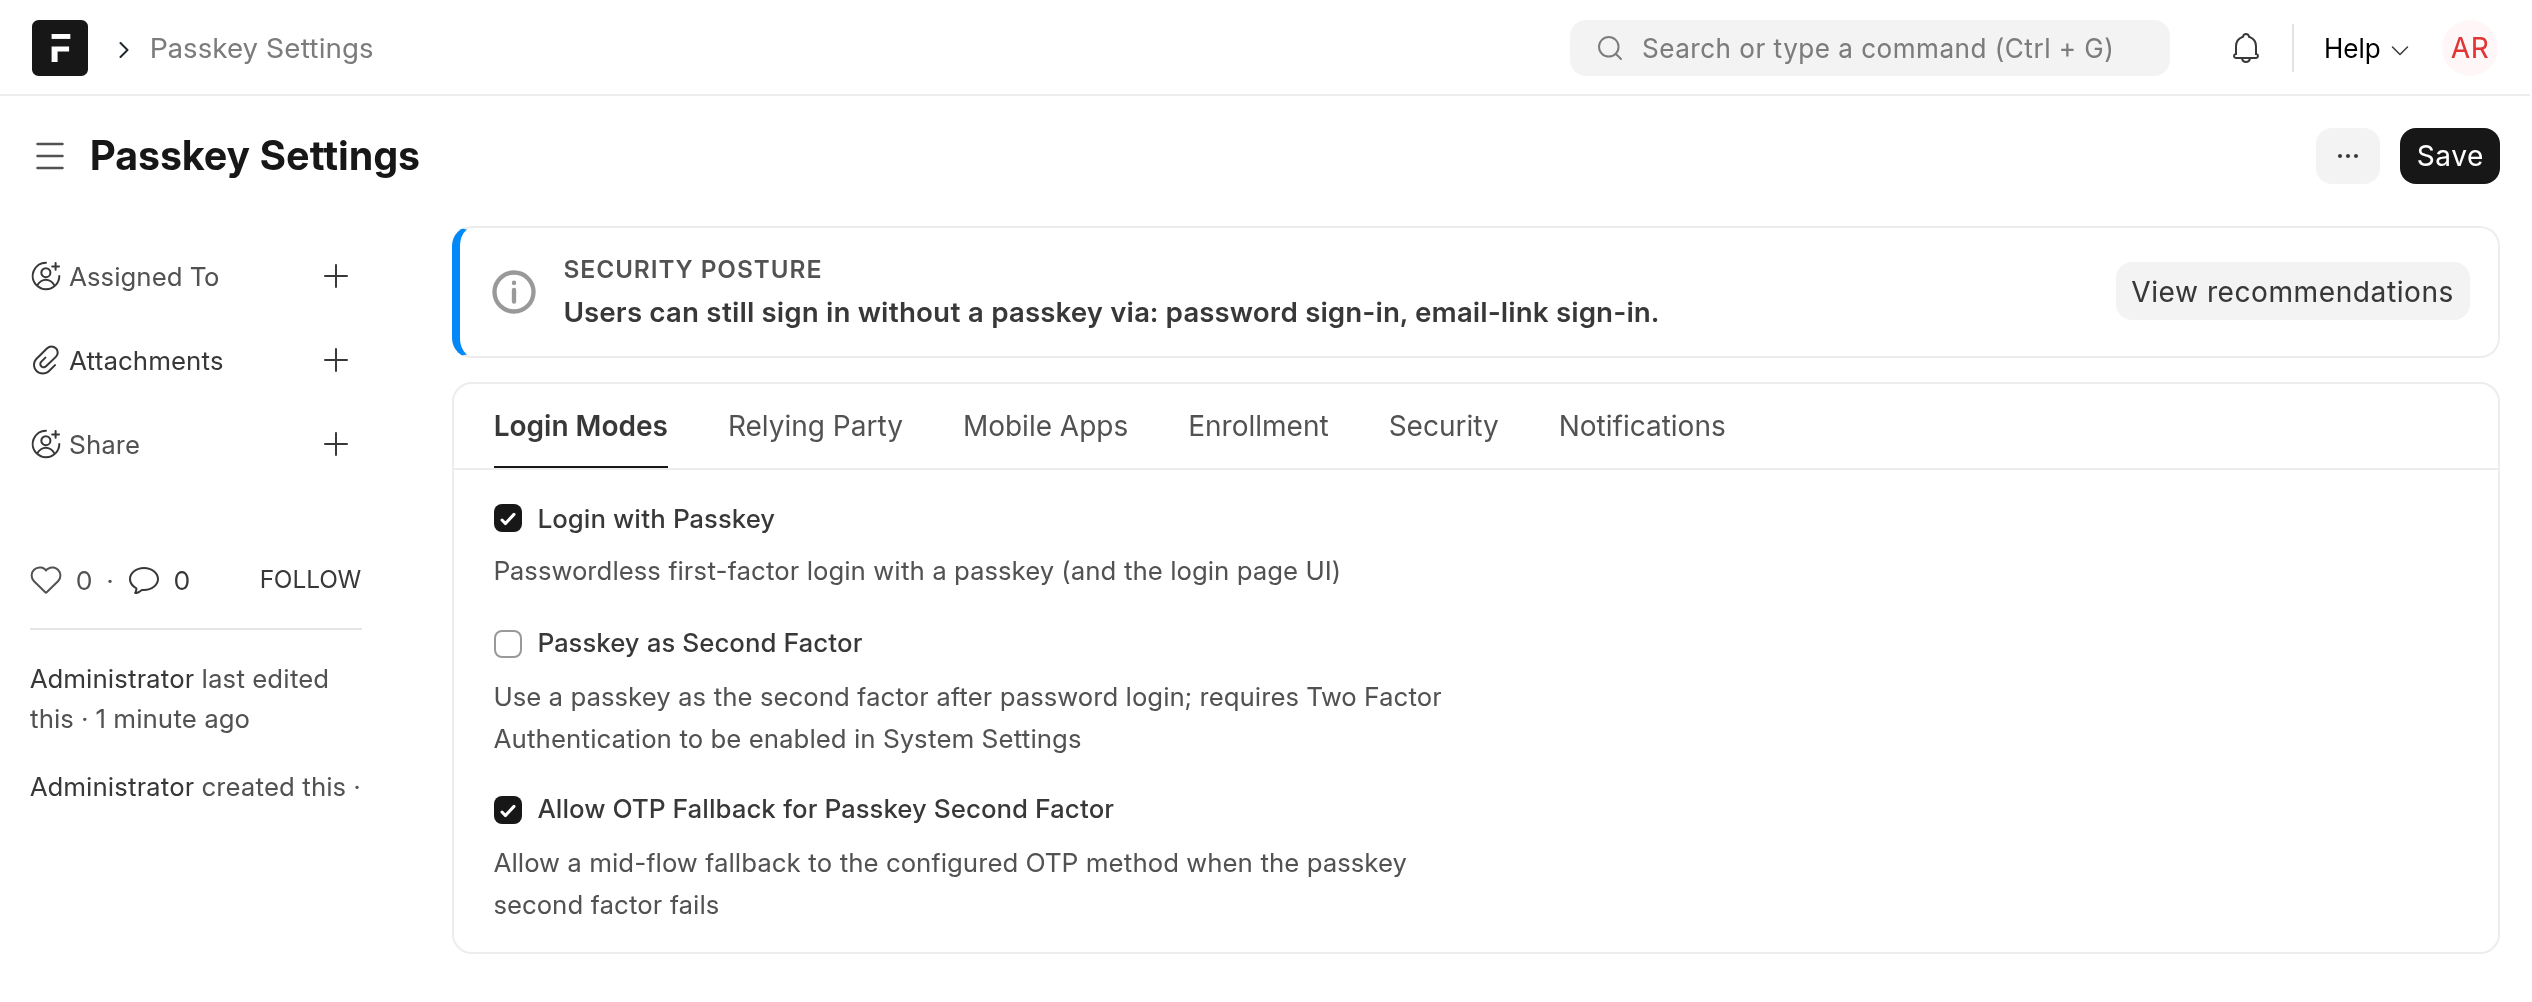
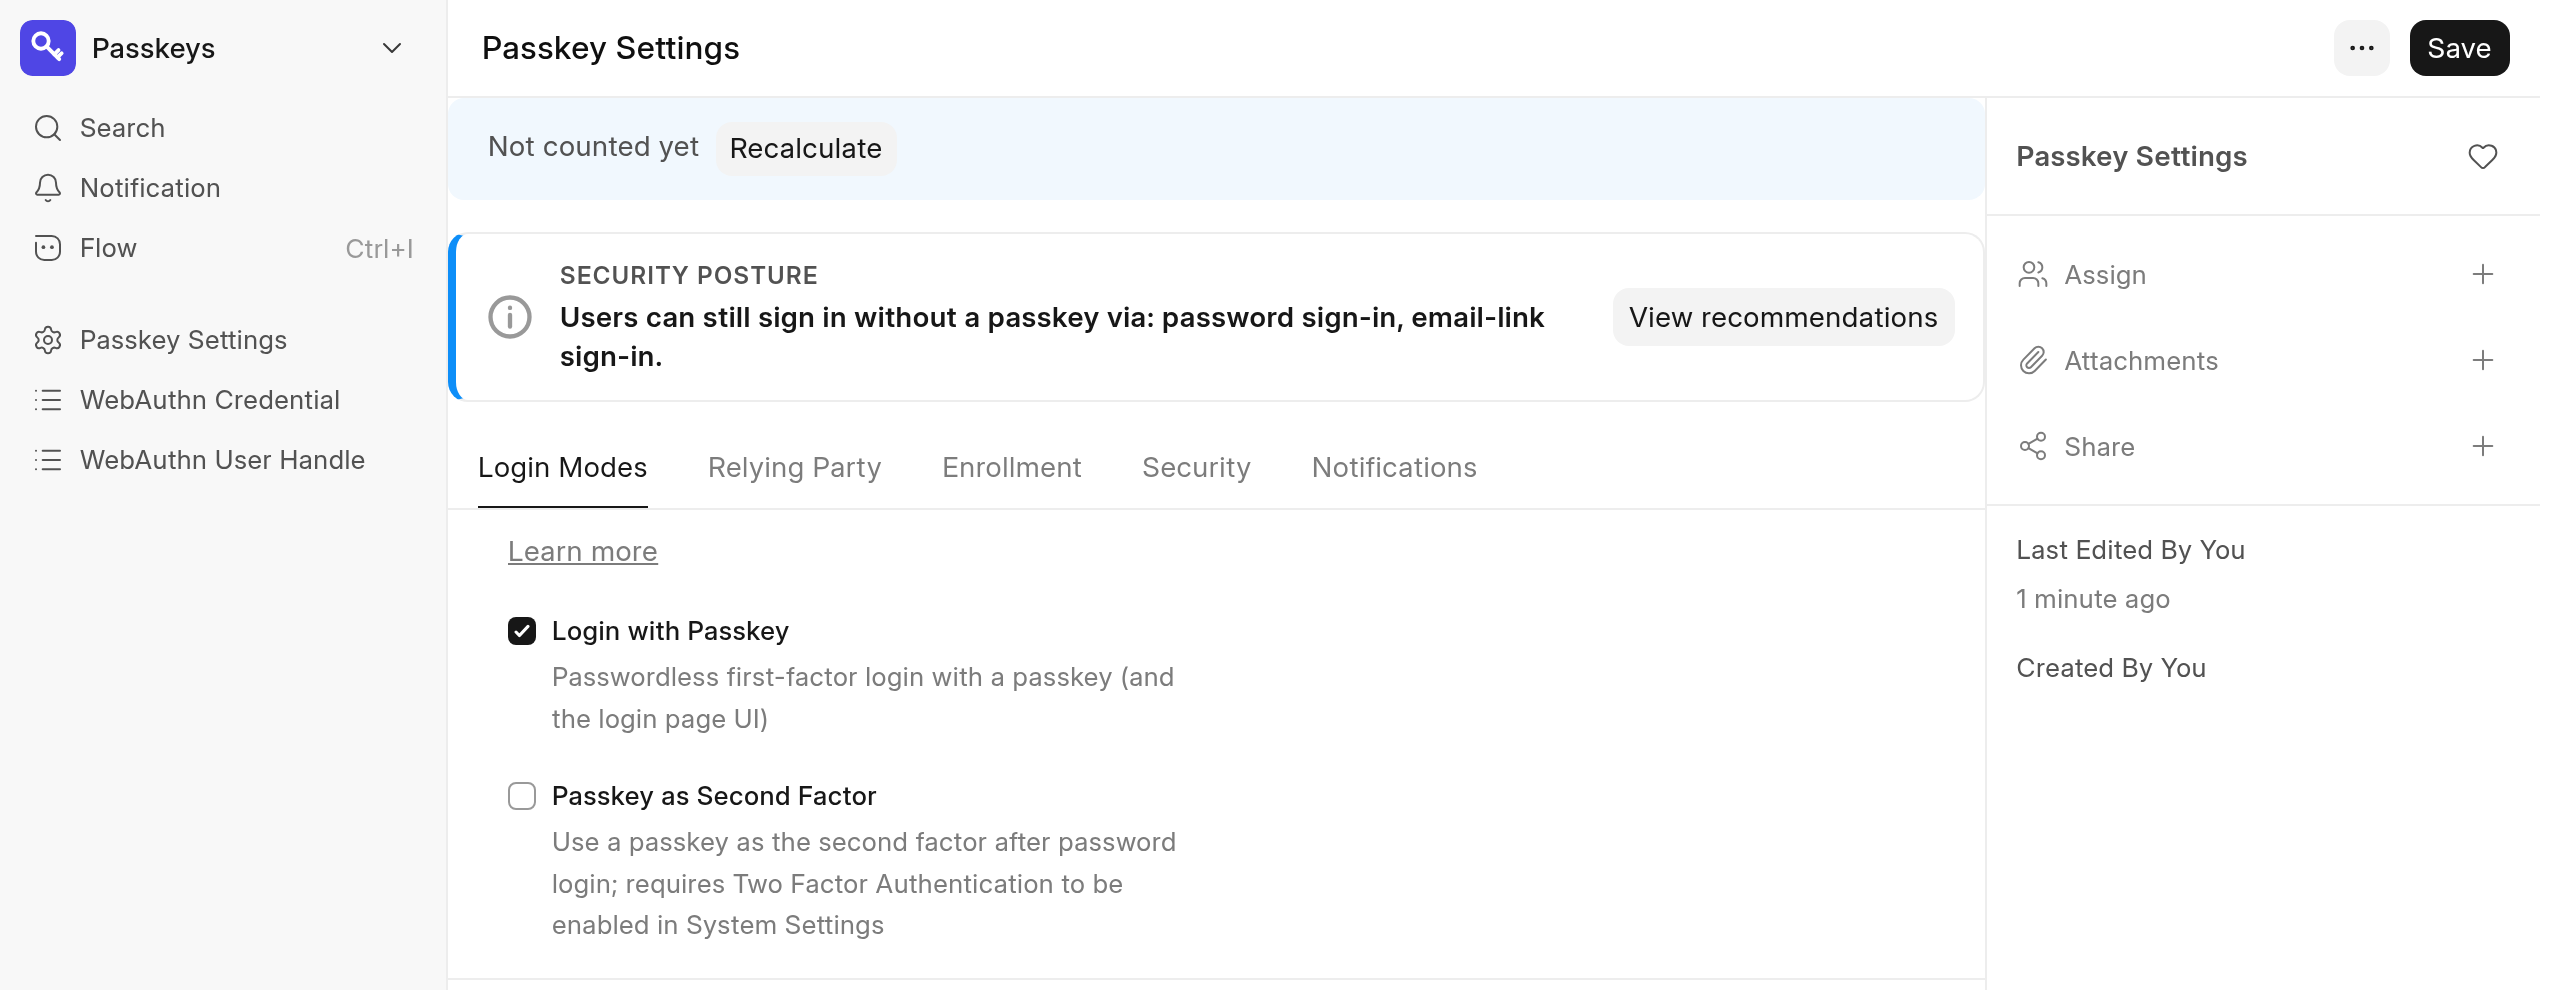
docs(readme): retake the settings screenshot on the current form
The old one showed the removed Mobile Apps tab and the OTP box that is now hidden.

Agent-Contributor: Claude Code / claude-opus-5-5

diff --git a/README.md b/README.md
@@ -89,7 +89,7 @@ can switch their account to passwordless-only.
 **Administrator settings.** Login modes, Relying Party (with mobile apps), enrollment, security,
 and notifications each have their own tab. Every mode stays off until an administrator turns it on.
 
-<img src=".github/screenshots/settings.png" alt="Passkey Settings, Login Modes tab, with the security posture summary" width="1266" />
+<img src=".github/screenshots/settings.png" alt="Passkey Settings, Login Modes tab, with the security posture summary" width="1280" />
 
 </details>
 
